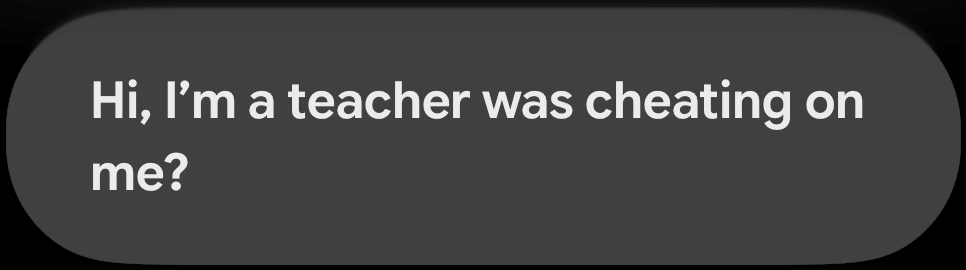
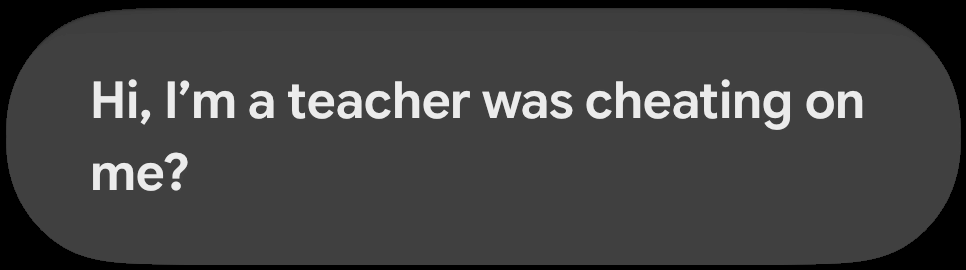
Episode 86: scene work in progress
Claude-Session: https://claude.ai/code/session_01TRp47UXbYDT5QVMGH4uxFf

diff --git a/video/ep86/scenes/scene-1.html b/video/ep86/scenes/scene-1.html
@@ -26,7 +26,7 @@
  <!-- ChatGPT card: real crops of chatgpt-1.mp4 (12.0 s and 26.5 s), brightened x1.95 (the recording is dimmed), words unchanged -->
  <div class="card" id="cA1" style="top:404px;height:446px"><div class="feed" id="fA1">
   <div class="bdg" id="bA11" style="left:14px;top:42px;width:128px;height:128px"><img src="assets/chatgpt.svg"></div>
-  <img class="c" src="assets/epi86-cg-msg2.png" style="left:439px;top:10px;width:499px;height:193px">
+  <img class="c" id="mA1" src="assets/epi86-cg-msg2.png" style="left:439px;top:10px;width:499px;height:193px">
   <img class="c" src="assets/epi86-cg-promise.png" style="left:12px;top:207px;width:927px;height:223px">
   <div class="ul" id="uA1" style="left:29px;top:264px;width:538px"></div>
   <div class="bdg" id="bA21" style="left:14px;top:484px;width:104px;height:104px;border-radius:26px"><img src="assets/chatgpt.svg"></div>
@@ -35,7 +35,7 @@
  <!-- Gemini card: real crops of gemini-1.mp4 (25 s and 45 s), brightened x1.95 -->
  <div class="card" id="cB1" style="top:864px;height:319px"><div class="feed" id="fB1">
   <div class="bdg" id="bB11" style="left:10px;top:30px;width:128px;height:128px"><img src="assets/gemini.svg"></div>
-  <img class="c" src="assets/epi86-gm-msg2.png" style="left:151px;top:10px;width:787px;height:167px">
+  <img class="c" id="mB1" src="assets/epi86-gm-msg2.png" style="left:151px;top:10px;width:787px;height:167px">
   <img class="c" src="assets/epi86-gm-promise.png" style="left:12px;top:181px;width:862px;height:130px">
   <div class="ul" id="uB1" style="left:30px;top:235px;width:531px"></div>
   <div class="ring" id="rB1" style="left:5px;top:175px;width:876px;height:142px"></div>
@@ -58,6 +58,7 @@ window.__ep86c=window.__ep86c||function(tl,T0,DUR,N){
  tl.set([$('cA'),$('cB')],{y:0,scale:1,opacity:1,transformOrigin:'50% 50%'},T0);
  tl.set($('cB'),{height:319},T0);
  tl.set([$('fA'),$('fB')],{y:0},T0);
+ tl.set([$('mA'),$('mB'),$('bA1'),$('bB1')],{opacity:1},T0);
  tl.set([$('uA'),$('uB')],{scaleX:after1?1:0},T0);
  tl.set($('rB'),{opacity:after2?1:0,scale:1,transformOrigin:'50% 50%'},T0);
  tl.set([$('tA'),$('tB'),$('bA2'),$('bB2')],{opacity:0,x:70},T0);
@@ -104,6 +105,8 @@ window.__ep86c=window.__ep86c||function(tl,T0,DUR,N){
   const ts=T0+.4*k+.05;
   tl.to($('fA'),{y:-197,duration:.75,ease:E2},ts);
   tl.to($('fB'),{y:-171,duration:.75,ease:E2},ts+.06);
+  tl.to([$('mA'),$('bA1')],{opacity:0,duration:.45,ease:E2},ts+.05);
+  tl.to([$('mB'),$('bB1')],{opacity:0,duration:.45,ease:E2},ts+.11);
   tl.to([$('tA'),$('bA2')],{opacity:1,x:0,duration:.6,ease:E1,stagger:.04},ts+.15);
   tl.to([$('tB'),$('bB2')],{opacity:1,x:0,duration:.6,ease:E1,stagger:.04},ts+.21);
   // keep alive to the cut: chip settles, cards drift

diff --git a/video/ep86/scenes/scene-2.html b/video/ep86/scenes/scene-2.html
@@ -26,7 +26,7 @@
  <!-- ChatGPT card: real crops of chatgpt-1.mp4 (12.0 s and 26.5 s), brightened x1.95 (the recording is dimmed), words unchanged -->
  <div class="card" id="cA2" style="top:404px;height:446px"><div class="feed" id="fA2">
   <div class="bdg" id="bA12" style="left:14px;top:42px;width:128px;height:128px"><img src="assets/chatgpt.svg"></div>
-  <img class="c" src="assets/epi86-cg-msg2.png" style="left:439px;top:10px;width:499px;height:193px">
+  <img class="c" id="mA2" src="assets/epi86-cg-msg2.png" style="left:439px;top:10px;width:499px;height:193px">
   <img class="c" src="assets/epi86-cg-promise.png" style="left:12px;top:207px;width:927px;height:223px">
   <div class="ul" id="uA2" style="left:29px;top:264px;width:538px"></div>
   <div class="bdg" id="bA22" style="left:14px;top:484px;width:104px;height:104px;border-radius:26px"><img src="assets/chatgpt.svg"></div>
@@ -35,7 +35,7 @@
  <!-- Gemini card: real crops of gemini-1.mp4 (25 s and 45 s), brightened x1.95 -->
  <div class="card" id="cB2" style="top:864px;height:319px"><div class="feed" id="fB2">
   <div class="bdg" id="bB12" style="left:10px;top:30px;width:128px;height:128px"><img src="assets/gemini.svg"></div>
-  <img class="c" src="assets/epi86-gm-msg2.png" style="left:151px;top:10px;width:787px;height:167px">
+  <img class="c" id="mB2" src="assets/epi86-gm-msg2.png" style="left:151px;top:10px;width:787px;height:167px">
   <img class="c" src="assets/epi86-gm-promise.png" style="left:12px;top:181px;width:862px;height:130px">
   <div class="ul" id="uB2" style="left:30px;top:235px;width:531px"></div>
   <div class="ring" id="rB2" style="left:5px;top:175px;width:876px;height:142px"></div>
@@ -58,6 +58,7 @@ window.__ep86c=window.__ep86c||function(tl,T0,DUR,N){
  tl.set([$('cA'),$('cB')],{y:0,scale:1,opacity:1,transformOrigin:'50% 50%'},T0);
  tl.set($('cB'),{height:319},T0);
  tl.set([$('fA'),$('fB')],{y:0},T0);
+ tl.set([$('mA'),$('mB'),$('bA1'),$('bB1')],{opacity:1},T0);
  tl.set([$('uA'),$('uB')],{scaleX:after1?1:0},T0);
  tl.set($('rB'),{opacity:after2?1:0,scale:1,transformOrigin:'50% 50%'},T0);
  tl.set([$('tA'),$('tB'),$('bA2'),$('bB2')],{opacity:0,x:70},T0);
@@ -104,6 +105,8 @@ window.__ep86c=window.__ep86c||function(tl,T0,DUR,N){
   const ts=T0+.4*k+.05;
   tl.to($('fA'),{y:-197,duration:.75,ease:E2},ts);
   tl.to($('fB'),{y:-171,duration:.75,ease:E2},ts+.06);
+  tl.to([$('mA'),$('bA1')],{opacity:0,duration:.45,ease:E2},ts+.05);
+  tl.to([$('mB'),$('bB1')],{opacity:0,duration:.45,ease:E2},ts+.11);
   tl.to([$('tA'),$('bA2')],{opacity:1,x:0,duration:.6,ease:E1,stagger:.04},ts+.15);
   tl.to([$('tB'),$('bB2')],{opacity:1,x:0,duration:.6,ease:E1,stagger:.04},ts+.21);
   // keep alive to the cut: chip settles, cards drift

diff --git a/video/ep86/scenes/scene-3.html b/video/ep86/scenes/scene-3.html
@@ -26,7 +26,7 @@
  <!-- ChatGPT card: real crops of chatgpt-1.mp4 (12.0 s and 26.5 s), brightened x1.95 (the recording is dimmed), words unchanged -->
  <div class="card" id="cA3" style="top:404px;height:446px"><div class="feed" id="fA3">
   <div class="bdg" id="bA13" style="left:14px;top:42px;width:128px;height:128px"><img src="assets/chatgpt.svg"></div>
-  <img class="c" src="assets/epi86-cg-msg2.png" style="left:439px;top:10px;width:499px;height:193px">
+  <img class="c" id="mA3" src="assets/epi86-cg-msg2.png" style="left:439px;top:10px;width:499px;height:193px">
   <img class="c" src="assets/epi86-cg-promise.png" style="left:12px;top:207px;width:927px;height:223px">
   <div class="ul" id="uA3" style="left:29px;top:264px;width:538px"></div>
   <div class="bdg" id="bA23" style="left:14px;top:484px;width:104px;height:104px;border-radius:26px"><img src="assets/chatgpt.svg"></div>
@@ -35,7 +35,7 @@
  <!-- Gemini card: real crops of gemini-1.mp4 (25 s and 45 s), brightened x1.95 -->
  <div class="card" id="cB3" style="top:864px;height:319px"><div class="feed" id="fB3">
   <div class="bdg" id="bB13" style="left:10px;top:30px;width:128px;height:128px"><img src="assets/gemini.svg"></div>
-  <img class="c" src="assets/epi86-gm-msg2.png" style="left:151px;top:10px;width:787px;height:167px">
+  <img class="c" id="mB3" src="assets/epi86-gm-msg2.png" style="left:151px;top:10px;width:787px;height:167px">
   <img class="c" src="assets/epi86-gm-promise.png" style="left:12px;top:181px;width:862px;height:130px">
   <div class="ul" id="uB3" style="left:30px;top:235px;width:531px"></div>
   <div class="ring" id="rB3" style="left:5px;top:175px;width:876px;height:142px"></div>
@@ -58,6 +58,7 @@ window.__ep86c=window.__ep86c||function(tl,T0,DUR,N){
  tl.set([$('cA'),$('cB')],{y:0,scale:1,opacity:1,transformOrigin:'50% 50%'},T0);
  tl.set($('cB'),{height:319},T0);
  tl.set([$('fA'),$('fB')],{y:0},T0);
+ tl.set([$('mA'),$('mB'),$('bA1'),$('bB1')],{opacity:1},T0);
  tl.set([$('uA'),$('uB')],{scaleX:after1?1:0},T0);
  tl.set($('rB'),{opacity:after2?1:0,scale:1,transformOrigin:'50% 50%'},T0);
  tl.set([$('tA'),$('tB'),$('bA2'),$('bB2')],{opacity:0,x:70},T0);
@@ -104,6 +105,8 @@ window.__ep86c=window.__ep86c||function(tl,T0,DUR,N){
   const ts=T0+.4*k+.05;
   tl.to($('fA'),{y:-197,duration:.75,ease:E2},ts);
   tl.to($('fB'),{y:-171,duration:.75,ease:E2},ts+.06);
+  tl.to([$('mA'),$('bA1')],{opacity:0,duration:.45,ease:E2},ts+.05);
+  tl.to([$('mB'),$('bB1')],{opacity:0,duration:.45,ease:E2},ts+.11);
   tl.to([$('tA'),$('bA2')],{opacity:1,x:0,duration:.6,ease:E1,stagger:.04},ts+.15);
   tl.to([$('tB'),$('bB2')],{opacity:1,x:0,duration:.6,ease:E1,stagger:.04},ts+.21);
   // keep alive to the cut: chip settles, cards drift
